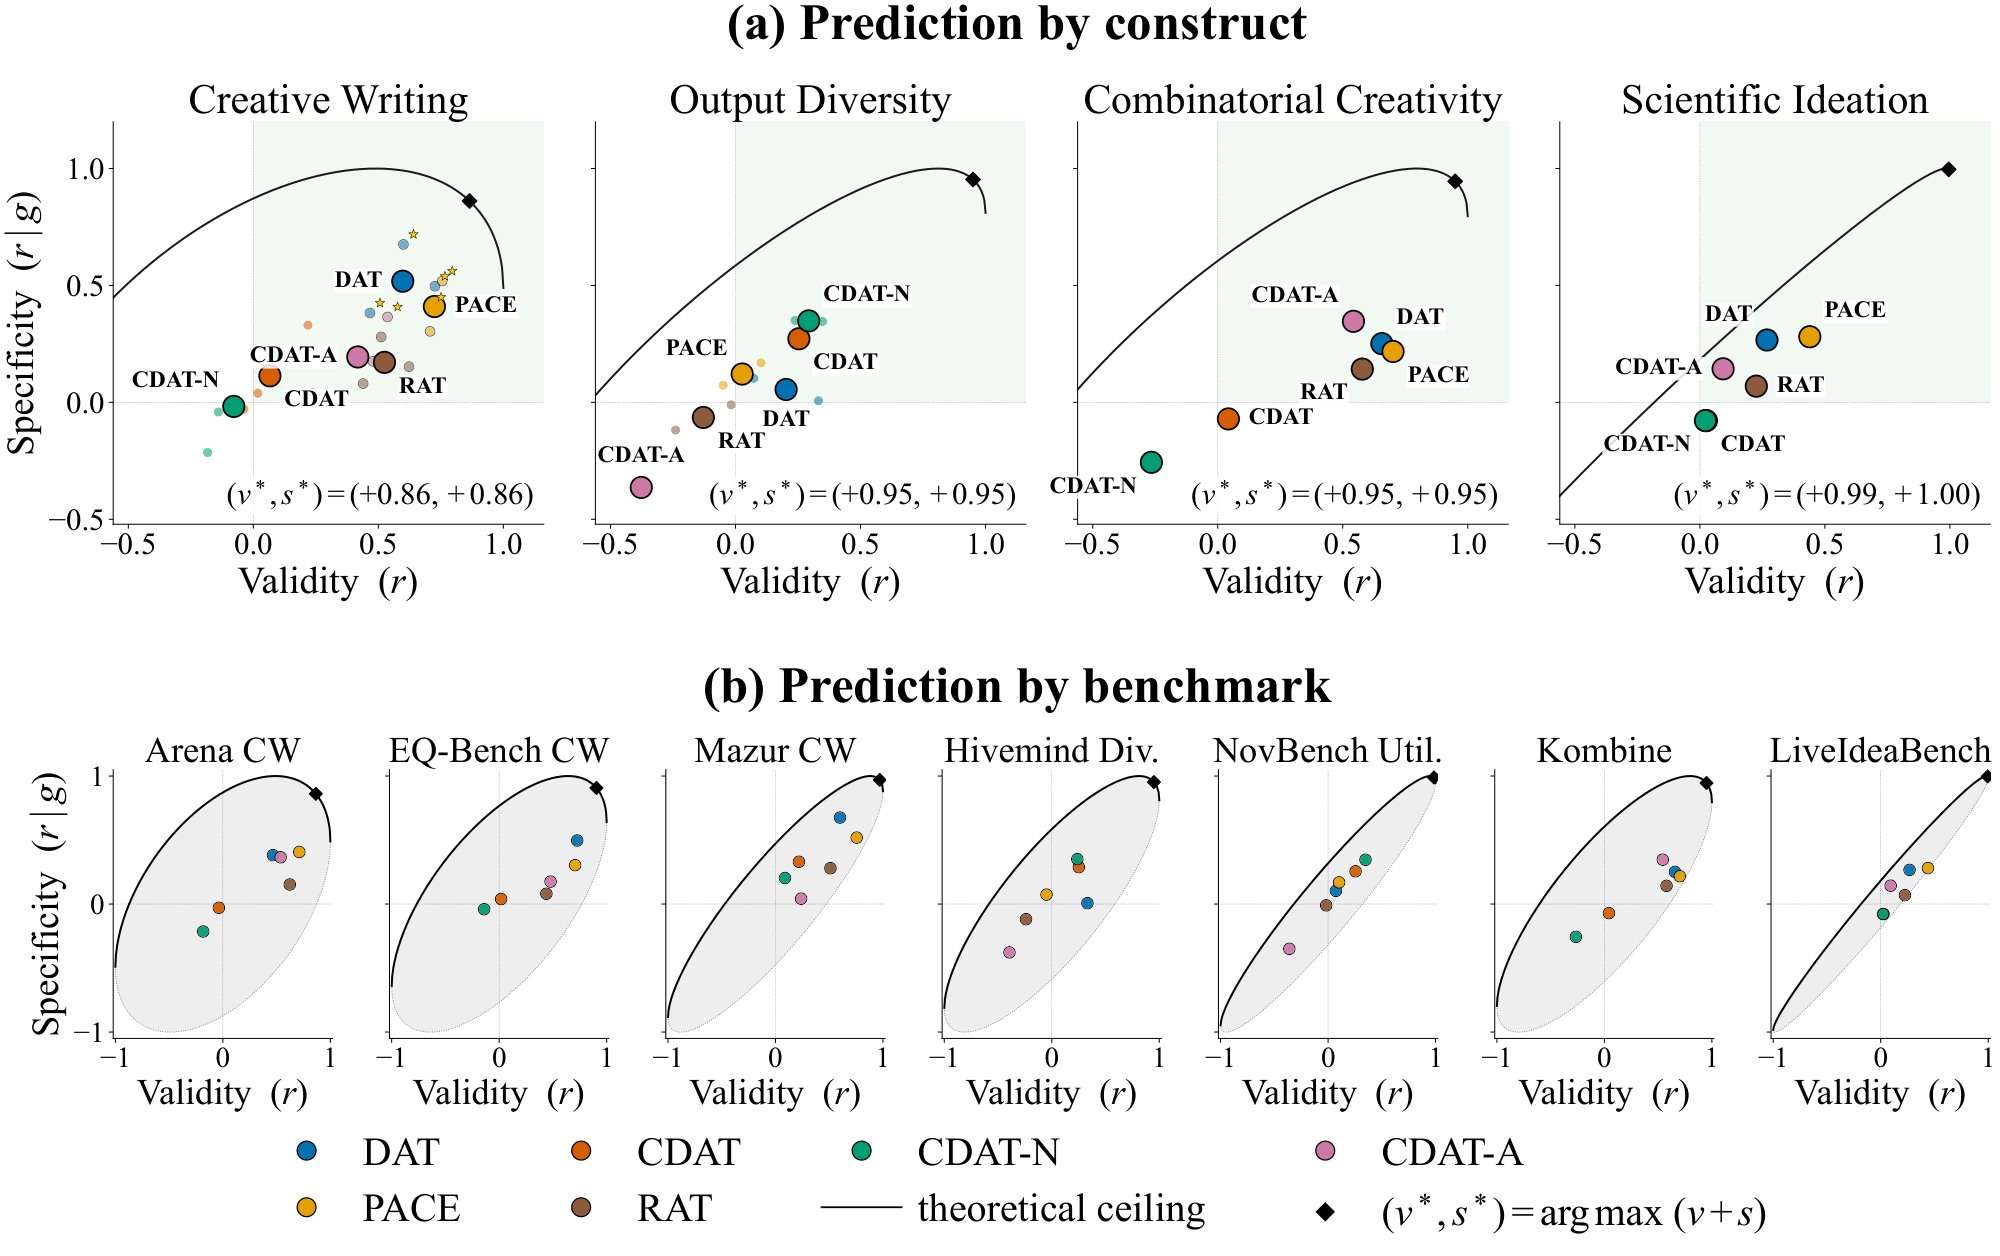
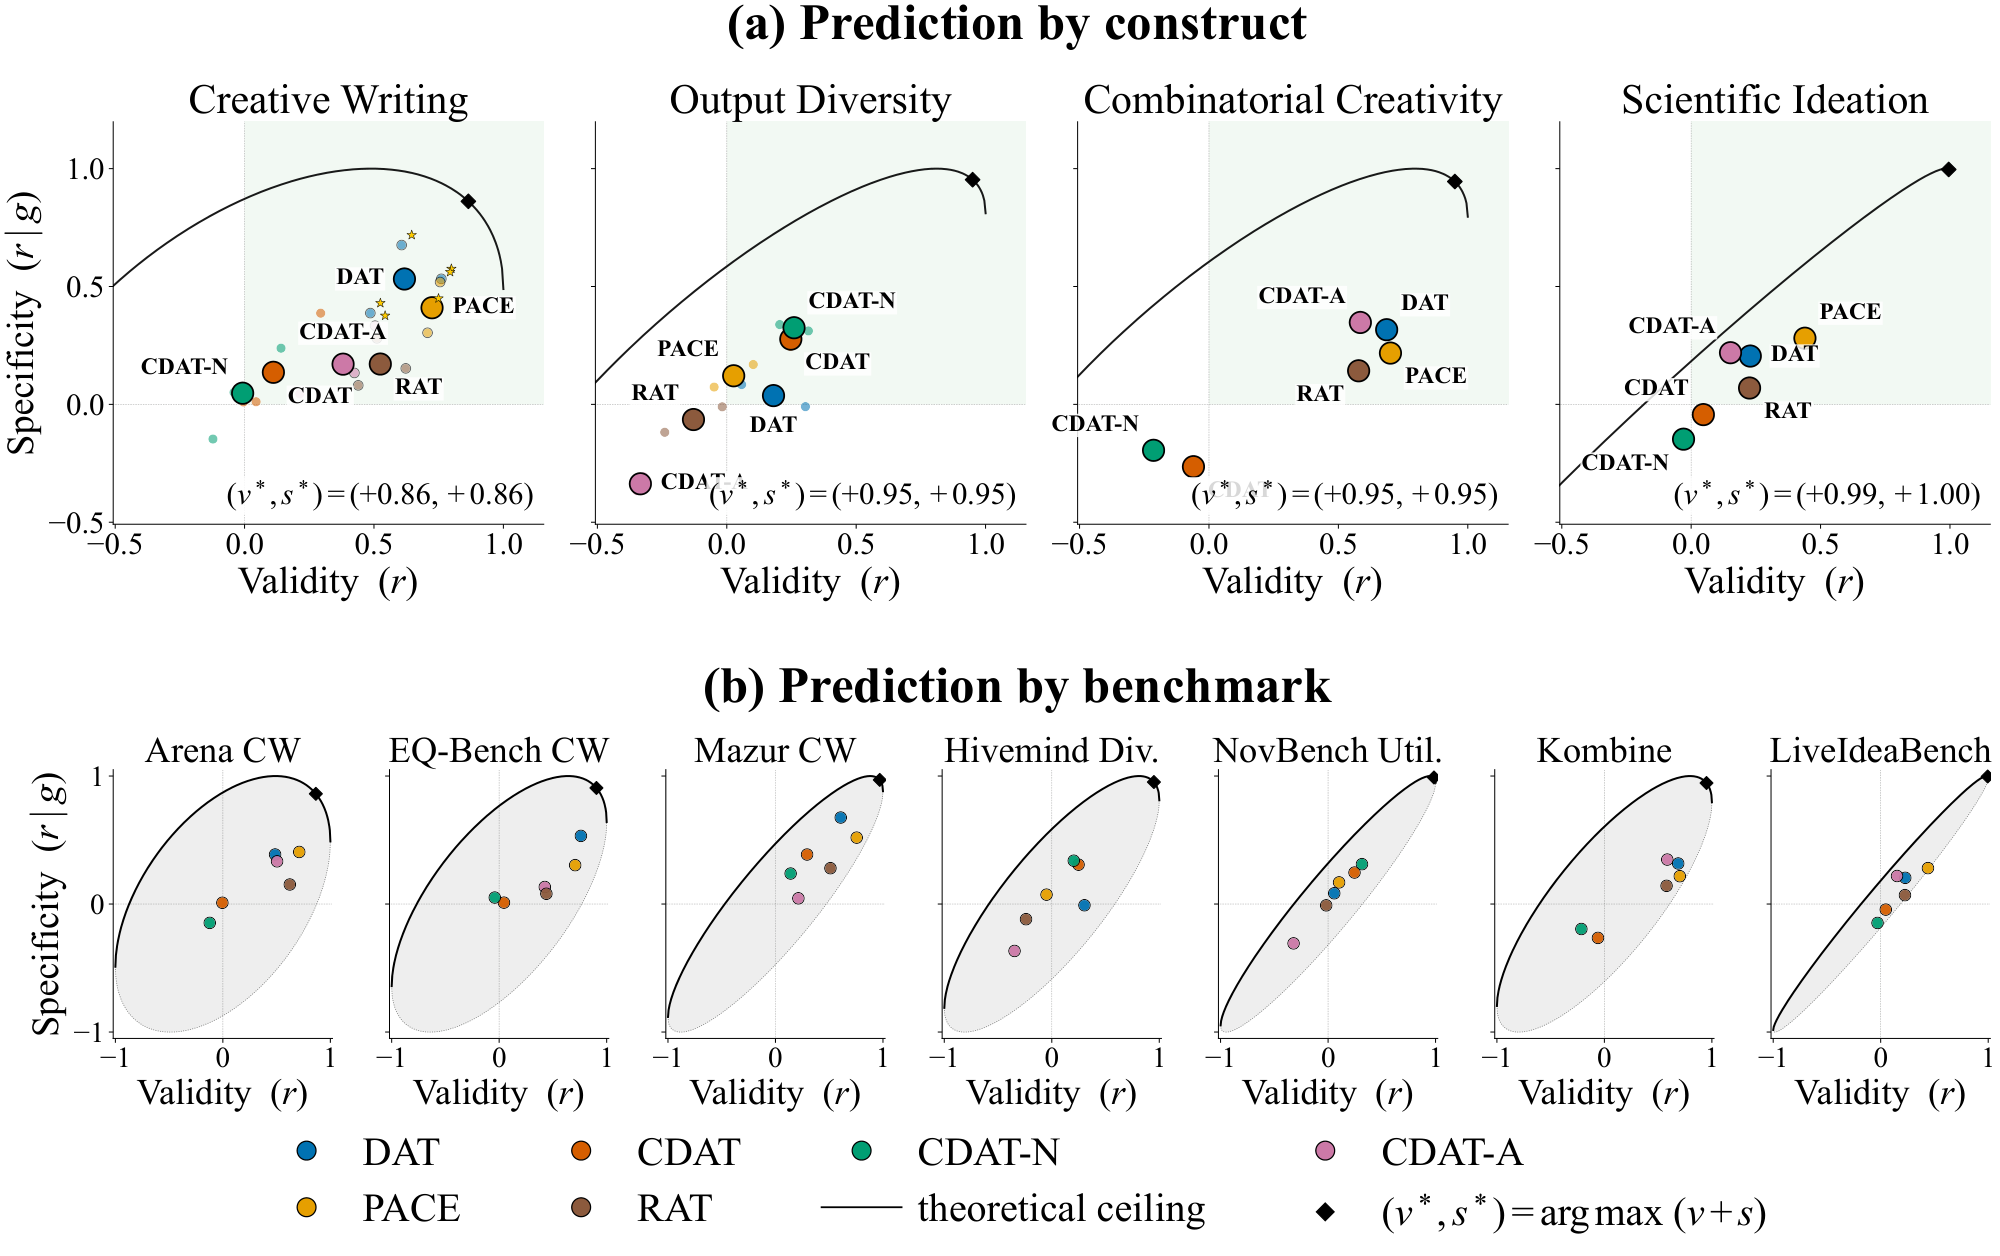
semantic-distance-tests page: corrected scores (six models' re-runs) in the results explorer and figures

diff --git a/docs/semantic-distance-tests/static/js/data.js b/docs/semantic-distance-tests/static/js/data.js
@@ -1,3 +1,3 @@
 /* Validity (r) and specificity (r|g, g = MMLU-Pro) for every test-benchmark pair, Overall block
- * (mean z-score across GloVe, FastText, SBERT). Generated from data/dat_eval/neurips_camera_ready/cells.json. */
-const DATA = {"tests":["DAT","CDAT","CDAT-N","CDAT-A","PACE","RAT"],"constructs":[{"name":"Creative Writing","benchmarks":["Arena CW","EQ-Bench CW","Mazur CW"]},{"name":"Output Diversity","benchmarks":["Hivemind Div.","NovBench Util."]},{"name":"Combinatorial Creativity","benchmarks":["Kombine"]},{"name":"Scientific Ideation","benchmarks":["LiveIdeaBench"]}],"cells":{"DAT":{"Arena CW":{"v":{"r":0.466,"p":0.000379,"n":54},"s":{"r":0.382,"p":0.0163,"n":40}},"EQ-Bench CW":{"v":{"r":0.726,"p":7.86e-07,"n":35},"s":{"r":0.497,"p":0.00986,"n":27}},"Mazur CW":{"v":{"r":0.6,"p":0.00401,"n":21},"s":{"r":0.676,"p":0.00292,"n":18}},"Hivemind Div.":{"v":{"r":0.332,"p":0.105,"n":25},"s":{"r":0.007,"p":0.977,"n":21}},"NovBench Util.":{"v":{"r":0.073,"p":0.717,"n":27},"s":{"r":0.103,"p":0.639,"n":24}},"Kombine":{"v":{"r":0.656,"p":0.00167,"n":20},"s":{"r":0.251,"p":0.331,"n":18}},"LiveIdeaBench":{"v":{"r":0.268,"p":0.185,"n":26},"s":{"r":0.267,"p":0.256,"n":21}}},"CDAT":{"Arena CW":{"v":{"r":-0.037,"p":0.794,"n":51},"s":{"r":-0.029,"p":0.866,"n":37}},"EQ-Bench CW":{"v":{"r":0.018,"p":0.923,"n":32},"s":{"r":0.039,"p":0.859,"n":24}},"Mazur CW":{"v":{"r":0.218,"p":0.355,"n":20},"s":{"r":0.331,"p":0.211,"n":17}},"Hivemind Div.":{"v":{"r":0.252,"p":0.225,"n":25},"s":{"r":0.288,"p":0.218,"n":21}},"NovBench Util.":{"v":{"r":0.255,"p":0.198,"n":27},"s":{"r":0.256,"p":0.238,"n":24}},"Kombine":{"v":{"r":0.043,"p":0.867,"n":18},"s":{"r":-0.071,"p":0.802,"n":16}},"LiveIdeaBench":{"v":{"r":0.026,"p":0.903,"n":25},"s":{"r":-0.078,"p":0.751,"n":20}}},"CDAT-N":{"Arena CW":{"v":{"r":-0.183,"p":0.194,"n":52},"s":{"r":-0.214,"p":0.203,"n":38}},"EQ-Bench CW":{"v":{"r":-0.14,"p":0.437,"n":33},"s":{"r":-0.041,"p":0.85,"n":25}},"Mazur CW":{"v":{"r":0.088,"p":0.711,"n":20},"s":{"r":0.203,"p":0.45,"n":17}},"Hivemind Div.":{"v":{"r":0.238,"p":0.253,"n":25},"s":{"r":0.351,"p":0.129,"n":21}},"NovBench Util.":{"v":{"r":0.348,"p":0.0753,"n":27},"s":{"r":0.346,"p":0.106,"n":24}},"Kombine":{"v":{"r":-0.265,"p":0.272,"n":19},"s":{"r":-0.256,"p":0.338,"n":17}},"LiveIdeaBench":{"v":{"r":0.022,"p":0.917,"n":25},"s":{"r":-0.078,"p":0.751,"n":20}}},"CDAT-A":{"Arena CW":{"v":{"r":0.537,"p":4.1e-05,"n":52},"s":{"r":0.365,"p":0.0262,"n":38}},"EQ-Bench CW":{"v":{"r":0.478,"p":0.00489,"n":33},"s":{"r":0.176,"p":0.412,"n":25}},"Mazur CW":{"v":{"r":0.238,"p":0.312,"n":20},"s":{"r":0.042,"p":0.877,"n":17}},"Hivemind Div.":{"v":{"r":-0.394,"p":0.0515,"n":25},"s":{"r":-0.378,"p":0.101,"n":21}},"NovBench Util.":{"v":{"r":-0.36,"p":0.0647,"n":27},"s":{"r":-0.35,"p":0.102,"n":24}},"Kombine":{"v":{"r":0.543,"p":0.0163,"n":19},"s":{"r":0.347,"p":0.188,"n":17}},"LiveIdeaBench":{"v":{"r":0.093,"p":0.66,"n":25},"s":{"r":0.144,"p":0.557,"n":20}}},"PACE":{"Arena CW":{"v":{"r":0.71,"p":2.55e-09,"n":53},"s":{"r":0.407,"p":0.0112,"n":39}},"EQ-Bench CW":{"v":{"r":0.707,"p":2.97e-06,"n":34},"s":{"r":0.304,"p":0.14,"n":26}},"Mazur CW":{"v":{"r":0.755,"p":0.000118,"n":20},"s":{"r":0.519,"p":0.0394,"n":17}},"Hivemind Div.":{"v":{"r":-0.049,"p":0.816,"n":25},"s":{"r":0.074,"p":0.758,"n":21}},"NovBench Util.":{"v":{"r":0.102,"p":0.612,"n":27},"s":{"r":0.169,"p":0.44,"n":24}},"Kombine":{"v":{"r":0.701,"p":0.000573,"n":20},"s":{"r":0.218,"p":0.401,"n":18}},"LiveIdeaBench":{"v":{"r":0.439,"p":0.0279,"n":25},"s":{"r":0.281,"p":0.244,"n":20}}},"RAT":{"Arena CW":{"v":{"r":0.623,"p":1.06e-06,"n":51},"s":{"r":0.153,"p":0.374,"n":37}},"EQ-Bench CW":{"v":{"r":0.439,"p":0.0106,"n":33},"s":{"r":0.081,"p":0.708,"n":25}},"Mazur CW":{"v":{"r":0.511,"p":0.0212,"n":20},"s":{"r":0.28,"p":0.293,"n":17}},"Hivemind Div.":{"v":{"r":-0.24,"p":0.259,"n":24},"s":{"r":-0.118,"p":0.629,"n":20}},"NovBench Util.":{"v":{"r":-0.018,"p":0.932,"n":26},"s":{"r":-0.01,"p":0.964,"n":23}},"Kombine":{"v":{"r":0.578,"p":0.00758,"n":20},"s":{"r":0.142,"p":0.585,"n":18}},"LiveIdeaBench":{"v":{"r":0.226,"p":0.268,"n":26},"s":{"r":0.069,"p":0.778,"n":20}}}}};
+ * (mean z-score across GloVe, FastText, SBERT). Generated from the release's outputs/cells.json. */
+const DATA = {"tests":["DAT","CDAT","CDAT-N","CDAT-A","PACE","RAT"],"constructs":[{"name":"Creative Writing","benchmarks":["Arena CW","EQ-Bench CW","Mazur CW"]},{"name":"Output Diversity","benchmarks":["Hivemind Div.","NovBench Util."]},{"name":"Combinatorial Creativity","benchmarks":["Kombine"]},{"name":"Scientific Ideation","benchmarks":["LiveIdeaBench"]}],"cells":{"DAT":{"Arena CW":{"v":{"r":0.486,"p":0.000196,"n":54},"s":{"r":0.387,"p":0.0149,"n":40}},"EQ-Bench CW":{"v":{"r":0.76,"p":1.18e-07,"n":35},"s":{"r":0.533,"p":0.0051,"n":27}},"Mazur CW":{"v":{"r":0.607,"p":0.00354,"n":21},"s":{"r":0.676,"p":0.0029,"n":18}},"Hivemind Div.":{"v":{"r":0.304,"p":0.14,"n":25},"s":{"r":-0.01,"p":0.968,"n":21}},"NovBench Util.":{"v":{"r":0.057,"p":0.777,"n":27},"s":{"r":0.084,"p":0.703,"n":24}},"Kombine":{"v":{"r":0.687,"p":0.000829,"n":20},"s":{"r":0.317,"p":0.215,"n":18}},"LiveIdeaBench":{"v":{"r":0.228,"p":0.262,"n":26},"s":{"r":0.205,"p":0.386,"n":21}}},"CDAT":{"Arena CW":{"v":{"r":-0.005,"p":0.974,"n":53},"s":{"r":0.01,"p":0.952,"n":39}},"EQ-Bench CW":{"v":{"r":0.044,"p":0.803,"n":34},"s":{"r":0.011,"p":0.958,"n":26}},"Mazur CW":{"v":{"r":0.294,"p":0.208,"n":20},"s":{"r":0.387,"p":0.139,"n":17}},"Hivemind Div.":{"v":{"r":0.249,"p":0.23,"n":25},"s":{"r":0.308,"p":0.187,"n":21}},"NovBench Util.":{"v":{"r":0.246,"p":0.217,"n":27},"s":{"r":0.246,"p":0.258,"n":24}},"Kombine":{"v":{"r":-0.06,"p":0.802,"n":20},"s":{"r":-0.264,"p":0.305,"n":18}},"LiveIdeaBench":{"v":{"r":0.047,"p":0.823,"n":25},"s":{"r":-0.043,"p":0.86,"n":20}}},"CDAT-N":{"Arena CW":{"v":{"r":-0.122,"p":0.383,"n":53},"s":{"r":-0.147,"p":0.378,"n":39}},"EQ-Bench CW":{"v":{"r":-0.041,"p":0.818,"n":34},"s":{"r":0.051,"p":0.809,"n":26}},"Mazur CW":{"v":{"r":0.141,"p":0.554,"n":20},"s":{"r":0.238,"p":0.374,"n":17}},"Hivemind Div.":{"v":{"r":0.204,"p":0.327,"n":25},"s":{"r":0.339,"p":0.144,"n":21}},"NovBench Util.":{"v":{"r":0.315,"p":0.109,"n":27},"s":{"r":0.312,"p":0.148,"n":24}},"Kombine":{"v":{"r":-0.214,"p":0.364,"n":20},"s":{"r":-0.195,"p":0.454,"n":18}},"LiveIdeaBench":{"v":{"r":-0.03,"p":0.888,"n":25},"s":{"r":-0.148,"p":0.547,"n":20}}},"CDAT-A":{"Arena CW":{"v":{"r":0.504,"p":0.000118,"n":53},"s":{"r":0.334,"p":0.0406,"n":39}},"EQ-Bench CW":{"v":{"r":0.424,"p":0.0124,"n":34},"s":{"r":0.133,"p":0.525,"n":26}},"Mazur CW":{"v":{"r":0.213,"p":0.367,"n":20},"s":{"r":0.045,"p":0.869,"n":17}},"Hivemind Div.":{"v":{"r":-0.347,"p":0.0896,"n":25},"s":{"r":-0.366,"p":0.112,"n":21}},"NovBench Util.":{"v":{"r":-0.321,"p":0.102,"n":27},"s":{"r":-0.307,"p":0.154,"n":24}},"Kombine":{"v":{"r":0.585,"p":0.00676,"n":20},"s":{"r":0.347,"p":0.172,"n":18}},"LiveIdeaBench":{"v":{"r":0.152,"p":0.468,"n":25},"s":{"r":0.219,"p":0.367,"n":20}}},"PACE":{"Arena CW":{"v":{"r":0.71,"p":2.55e-09,"n":53},"s":{"r":0.407,"p":0.0112,"n":39}},"EQ-Bench CW":{"v":{"r":0.707,"p":2.97e-06,"n":34},"s":{"r":0.304,"p":0.14,"n":26}},"Mazur CW":{"v":{"r":0.755,"p":0.000118,"n":20},"s":{"r":0.519,"p":0.0394,"n":17}},"Hivemind Div.":{"v":{"r":-0.049,"p":0.816,"n":25},"s":{"r":0.074,"p":0.758,"n":21}},"NovBench Util.":{"v":{"r":0.102,"p":0.612,"n":27},"s":{"r":0.169,"p":0.44,"n":24}},"Kombine":{"v":{"r":0.701,"p":0.000573,"n":20},"s":{"r":0.218,"p":0.401,"n":18}},"LiveIdeaBench":{"v":{"r":0.439,"p":0.0279,"n":25},"s":{"r":0.281,"p":0.244,"n":20}}},"RAT":{"Arena CW":{"v":{"r":0.623,"p":1.06e-06,"n":51},"s":{"r":0.153,"p":0.374,"n":37}},"EQ-Bench CW":{"v":{"r":0.439,"p":0.0106,"n":33},"s":{"r":0.081,"p":0.708,"n":25}},"Mazur CW":{"v":{"r":0.511,"p":0.0212,"n":20},"s":{"r":0.28,"p":0.293,"n":17}},"Hivemind Div.":{"v":{"r":-0.24,"p":0.259,"n":24},"s":{"r":-0.118,"p":0.629,"n":20}},"NovBench Util.":{"v":{"r":-0.018,"p":0.932,"n":26},"s":{"r":-0.01,"p":0.964,"n":23}},"Kombine":{"v":{"r":0.578,"p":0.00758,"n":20},"s":{"r":0.142,"p":0.585,"n":18}},"LiveIdeaBench":{"v":{"r":0.226,"p":0.268,"n":26},"s":{"r":0.069,"p":0.778,"n":20}}}}};
